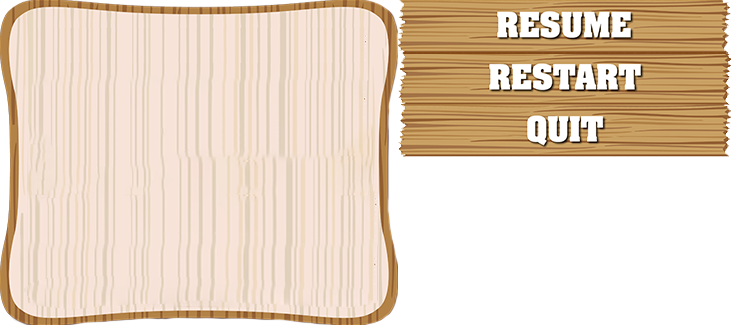
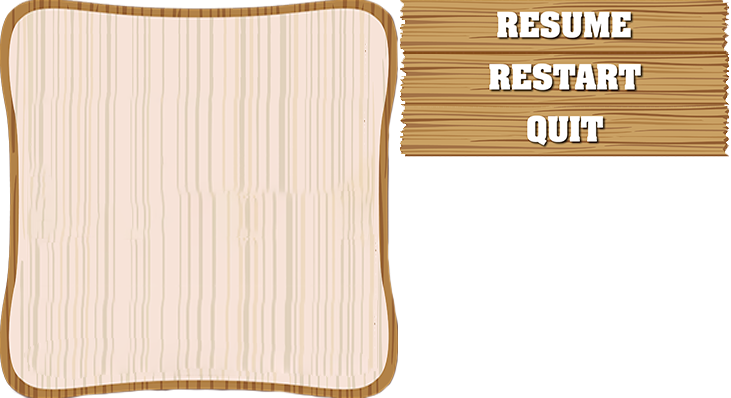
не отображется меню

Changed region(s): [[0.5417, 0.0, 1.0, 0.4923]]

diff --git a/lab3/src/main/java/org/lab3/controller/gameMode/level/Level.java b/lab3/src/main/java/org/lab3/controller/gameMode/level/Level.java
@@ -4,13 +4,12 @@ import org.lab3.controller.actions.SlashFX.SlashFXAction;
 import org.lab3.controller.actions.enemyActions.EnemyAction;
 import org.lab3.controller.actions.playerActions.PlayerAction;
 import org.lab3.controller.gameMode.GameMode;
-import org.lab3.model.objects.pause.EndGameMenu;
-import org.lab3.model.objects.pause.PauseOverlay;
 import org.lab3.model.gameObjectsContext.LevelObjectsContext;
 import org.lab3.model.model.Model;
 import org.lab3.model.objects.SlashBladeObject;
 import org.lab3.model.objects.backgrounds.Background;
 import org.lab3.model.objects.characters.SamuraiV1;
+import org.lab3.model.objects.pause.Pause;
 import org.lab3.model.objects.slashFX.SlashFX;
 
 import java.util.ArrayList;
@@ -21,8 +20,6 @@ public class Level implements GameMode {
     private LevelObjectsContext levelObjectsContext;
     private EnemyCreator enemyCreator = new EnemyCreator();
     private AllCharactersActionsContext actionsContext;
-
-    private PauseOverlay LevelPause = new EndGameMenu();
     private boolean isPause;
 
     private Level(Model model) {
@@ -44,6 +41,7 @@ public class Level implements GameMode {
                 actionsContext.getPlayerActionController().changeMoveX(-1, 1);
                 break;
             case 27:
+                levelObjectsContext.getLevelPause().setGameObjectIsExist(true);
                 isPause = true;
         }
     }
@@ -141,6 +139,7 @@ public class Level implements GameMode {
         setBackgroundZeroState();
         setFx();
         setFxZeroState();
+        setPauseLayout();
         actionsContext.setEnemyActionsControllers(new ArrayList<>());
         enemyCreator.setCreateDelay(2000);
     }
@@ -195,5 +194,10 @@ public class Level implements GameMode {
         slashFX.setGameObjectIsExist(false);
         slashFX.setObjectSize(70);
         actionsContext.getSlashFXController().initial();
+    }
+
+    private void setPauseLayout() {
+        Pause pause = new Pause(model.getFrameSize());
+        levelObjectsContext.setLevelPause(pause);
     }
 }

diff --git a/lab3/src/main/java/org/lab3/model/objects/pause/Pause.java b/lab3/src/main/java/org/lab3/model/objects/pause/Pause.java
@@ -1,0 +1,47 @@
+package org.lab3.model.objects.pause;
+
+import org.lab3.model.objects.SlashBladeObjectAbstract;
+import org.lab3.slashBlade.FrameSize;
+import org.lab3.view.Constants;
+
+public class Pause extends SlashBladeObjectAbstract {
+    private PauseButton resume = new PauseButton(Constants.PauseConstants.BUTTONS_INDEX, Constants.PauseConstants.RESUME_BUTTON_INDEX);
+    private PauseButton reset = new PauseButton(Constants.PauseConstants.BUTTONS_INDEX, Constants.PauseConstants.RESET_BUTTON_INDEX);
+    private PauseButton exit = new PauseButton(Constants.PauseConstants.BUTTONS_INDEX, Constants.PauseConstants.EXIT_BUTTON_INDEX);
+
+    public Pause(FrameSize frameSize) {
+        setWidth(Constants.PauseConstants.PAUSE_BG_WIDTH);
+        setHeight(Constants.PauseConstants.PAUSE_BG_WIDTH);
+        setResourcesIndexInResourcesList(Constants.PauseConstants.PAUSE_FX_ATLAS_INDEX);
+        setScreenLayerLevel(10);
+        setCurrentImageIndex(0, 0);
+        setInGamePosition(frameSize.getWidth() / 2 - objectWidth / 2, frameSize.getHeight() / 2 - objectHeight / 2);
+
+        resume.setInGamePosition(inGamePosX / 2 - resume.getWidth() / 2, inGamePosY / 4 - resume.getHeight() / 2);
+        reset.setInGamePosition(inGamePosX / 2 - resume.getWidth() / 2, inGamePosY / 4 * 2 - resume.getHeight() / 2);
+        exit.setInGamePosition(inGamePosX / 2 - resume.getWidth() / 2, inGamePosY / 4  * 3 - resume.getHeight() / 2);
+
+        setGameObjectIsExist(false);
+    }
+
+    public PauseButton getResume() {
+        return resume;
+    }
+
+    public PauseButton getReset() {
+        return reset;
+    }
+
+    public PauseButton getExit() {
+        return exit;
+    }
+
+    @Override
+    public void setGameObjectIsExist(boolean gameObjectIsExist) {
+        this.gameObjectIsExist = gameObjectIsExist;
+        resume.setGameObjectIsExist(gameObjectIsExist);
+        reset.setGameObjectIsExist(gameObjectIsExist);
+        exit.setGameObjectIsExist(gameObjectIsExist);
+    }
+
+}

diff --git a/lab3/src/main/java/org/lab3/resources/PauseResources.java b/lab3/src/main/java/org/lab3/resources/PauseResources.java
@@ -1,17 +1,33 @@
 package org.lab3.resources;
 
+import org.lab3.view.Constants;
+
 import javax.imageio.ImageIO;
 import java.awt.image.BufferedImage;
 import java.io.IOException;
 import java.io.InputStream;
 
 public class PauseResources implements ObjectResources {
-    private BufferedImage[][] image = new BufferedImage[1][1];
+    private BufferedImage[][] image = new BufferedImage[2][3];
 
     @Override
     public void openResource(String path) {
         try (InputStream imageStream = this.getClass().getResourceAsStream("../../../SlashBladeResources/" + path)) {
-            image[0][0] = ImageIO.read(imageStream);
+            BufferedImage fullImage = ImageIO.read(imageStream);
+            image[0][0] = fullImage.getSubimage(0, 0, Constants.PauseConstants.PAUSE_BG_WIDTH, Constants.PauseConstants.PAUSE_BG_HEIGHT);
+
+            int fullImageWidth = Constants.PauseConstants.PAUSE_WIDTH;
+            int fullImageHeight = Constants.PauseConstants.PAUSE_HEIGHT;
+            int pauseButtonWidth = Constants.PauseConstants.PAUSE_BUTTON_WIDTH;
+            int pauseButtonHeight = Constants.PauseConstants.PAUSE_BUTTON_HEIGHT;
+
+            image[1][0] = fullImage.getSubimage(fullImageWidth - pauseButtonWidth, fullImageHeight - pauseButtonHeight * 1,
+                    pauseButtonWidth, pauseButtonHeight);
+            image[1][1] = fullImage.getSubimage(fullImageWidth - pauseButtonWidth, fullImageHeight - pauseButtonHeight * 2,
+                    pauseButtonWidth, pauseButtonHeight);
+            image[1][2] = fullImage.getSubimage(fullImageWidth - pauseButtonWidth, fullImageHeight - pauseButtonHeight * 3,
+                    pauseButtonWidth, pauseButtonHeight);
+
         } catch (IOException ex) {
             ex.printStackTrace();
         }

diff --git a/lab3/src/main/java/org/lab3/model/gameObjectsContext/LevelObjectsContext.java b/lab3/src/main/java/org/lab3/model/gameObjectsContext/LevelObjectsContext.java
@@ -3,6 +3,7 @@ package org.lab3.model.gameObjectsContext;
 import org.lab3.model.objects.DrawObject;
 import org.lab3.model.objects.backgrounds.Background;
 import org.lab3.model.objects.characters.SamuraiV1;
+import org.lab3.model.objects.pause.Pause;
 import org.lab3.model.objects.slashFX.SlashFX;
 
 import java.util.*;
@@ -12,8 +13,7 @@ public class LevelObjectsContext implements ObjectsContext {
     private Background  background;
     private List<SamuraiV1> enemyList = new ArrayList<>();
     private SlashFX slashFX;
-
-//    private
+    private Pause levelPause;
 
     private int score = 0;
 
@@ -57,6 +57,14 @@ public class LevelObjectsContext implements ObjectsContext {
         this.score = score;
     }
 
+    public Pause getLevelPause() {
+        return levelPause;
+    }
+
+    public void setLevelPause(Pause levelPause) {
+        this.levelPause = levelPause;
+    }
+
     @Override
     public AbstractList<DrawObject> getDrawObjectsList() {
         AbstractList<DrawObject> objectsList = new ArrayList<>();
@@ -70,6 +78,13 @@ public class LevelObjectsContext implements ObjectsContext {
 
         if (slashFX.isGameObjectIsExist()) {
             objectsList.add(slashFX);
+        }
+
+        if (levelPause.isGameObjectIsExist()) {
+            objectsList.add(levelPause);
+            objectsList.add(levelPause.getResume());
+            objectsList.add(levelPause.getReset());
+            objectsList.add(levelPause.getExit());
         }
 
         return objectsList;

diff --git a/lab3/src/main/java/org/lab3/model/objects/SlashBladeObjectAbstract.java b/lab3/src/main/java/org/lab3/model/objects/SlashBladeObjectAbstract.java
@@ -52,18 +52,8 @@ public abstract class SlashBladeObjectAbstract extends DrawObjectAbstract implem
     }
 
     @Override
-    public void setWidth(int objectWidth) {
-        this.objectWidth = objectWidth;
-    }
-
-    @Override
     public int getHeight() {
         return objectHeight;
-    }
-
-    @Override
-    public void setHeight(int objectHeight) {
-        this.objectHeight = objectHeight;
     }
 
     @Override
@@ -98,6 +88,18 @@ public abstract class SlashBladeObjectAbstract extends DrawObjectAbstract implem
         setScreenHeight(objectHeight);
 
         this.screenSize = screenSize;
+    }
+
+    @Override
+    public void setWidth(int objectWidth) {
+        this.objectWidth = objectWidth;
+        this.hitbox.setSize(objectWidth, objectHeight);
+    }
+
+    @Override
+    public void setHeight(int objectHeight) {
+        this.objectHeight = objectHeight;
+        this.hitbox.setSize(objectWidth, objectHeight);
     }
 
     @Override

diff --git a/lab3/src/main/java/org/lab3/view/Constants.java b/lab3/src/main/java/org/lab3/view/Constants.java
@@ -41,9 +41,21 @@ public class Constants {
     public static class PauseConstants {
         public static final String PAUSE_ATLAS = "pause/pause.png";
 
-        public static final int PAUSE_FX_WIDTH = 731;
-        public static final int PAUSE_FX_HEIGHT = 325;
+        public static final int PAUSE_WIDTH = 731;
+        public static final int PAUSE_HEIGHT = 325;
+
+        public static final int PAUSE_BG_WIDTH = 398;
+        public static final int PAUSE_BG_HEIGHT = 398;
+
+        public static final int PAUSE_BUTTON_WIDTH = 333;
+        public static final int PAUSE_BUTTON_HEIGHT = 54;
 
         public static final int PAUSE_FX_ATLAS_INDEX = 4;
+
+        public static final int BUTTONS_INDEX = 1;
+        public static final int RESUME_BUTTON_INDEX = 0;
+        public static final int RESET_BUTTON_INDEX = 1;
+        public static final int EXIT_BUTTON_INDEX = 2;
+
     }
 }

diff --git a/lab3/src/main/java/org/lab3/model/objects/characters/SlashBladeCharacterAbstract.java b/lab3/src/main/java/org/lab3/model/objects/characters/SlashBladeCharacterAbstract.java
@@ -34,30 +34,6 @@ public abstract class SlashBladeCharacterAbstract extends SlashBladeObjectAbstra
     }
 
     @Override
-    public void setObjectSize(double screenSize) {
-        double newSize = screenSize / 100;
-        setWidth((int)(objectWidth * newSize));
-        setHeight((int)(objectHeight * newSize));
-
-        setScreenWidth(objectWidth);
-        setScreenHeight(objectHeight);
-
-        this.screenSize = screenSize;
-    }
-
-    @Override
-    public void setWidth(int objectWidth) {
-        this.objectWidth = objectWidth;
-        this.hitbox.setSize(objectWidth, objectHeight);
-    }
-
-    @Override
-    public void setHeight(int objectHeight) {
-        this.objectHeight = objectHeight;
-        this.hitbox.setSize(objectWidth, objectHeight);
-    }
-
-    @Override
     public double getScreenPosX() {
         return inGamePosX;
     }

diff --git a/lab3/src/main/java/org/lab3/view/SlashBladeView.java b/lab3/src/main/java/org/lab3/view/SlashBladeView.java
@@ -55,9 +55,6 @@ public class SlashBladeView implements View {
 
             for (DrawObject drawObject : drawObjectsList) {
                 EditedImage.editImage(drawObject, frameSize);
-//                BufferedImage image = openedResources.getResourcesList().get(drawObject.getResourcesIndexInResourcesList())
-//                        .getOpenedResourcesList().get(drawObject.getCurrentImageIndex()).getOpenedImage();
-
                 BufferedImage image = openedResources.getResourcesList().get(drawObject.getResourcesIndexInResourcesList()).
                         getImage()[drawObject.getCurrentImageIndex().getI1()][drawObject.getCurrentImageIndex().getI2()];
 

diff --git a/lab3/src/main/java/org/lab3/model/objects/pause/PauseButton.java b/lab3/src/main/java/org/lab3/model/objects/pause/PauseButton.java
@@ -1,0 +1,14 @@
+package org.lab3.model.objects.pause;
+
+import org.lab3.model.objects.SlashBladeObjectAbstract;
+import org.lab3.view.Constants;
+
+public class PauseButton extends SlashBladeObjectAbstract {
+    public PauseButton(int i1, int i2) {
+        setWidth(Constants.PauseConstants.PAUSE_BUTTON_WIDTH);
+        setHeight(Constants.PauseConstants.PAUSE_BUTTON_HEIGHT);
+        setResourcesIndexInResourcesList(Constants.PauseConstants.PAUSE_FX_ATLAS_INDEX);
+        setCurrentImageIndex(i1, i2);
+        setScreenLayerLevel(11);
+    }
+}
